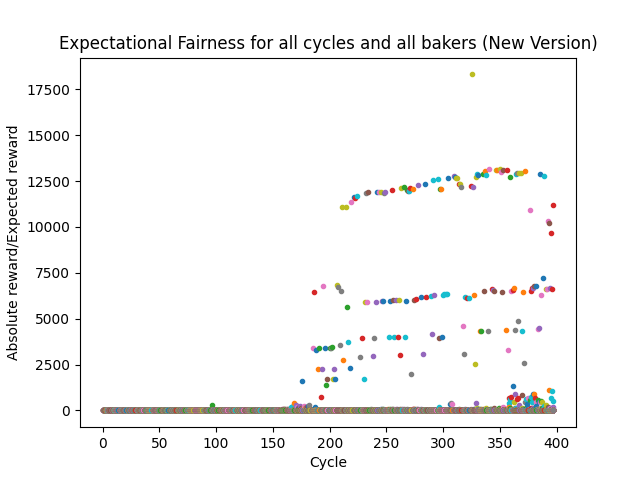
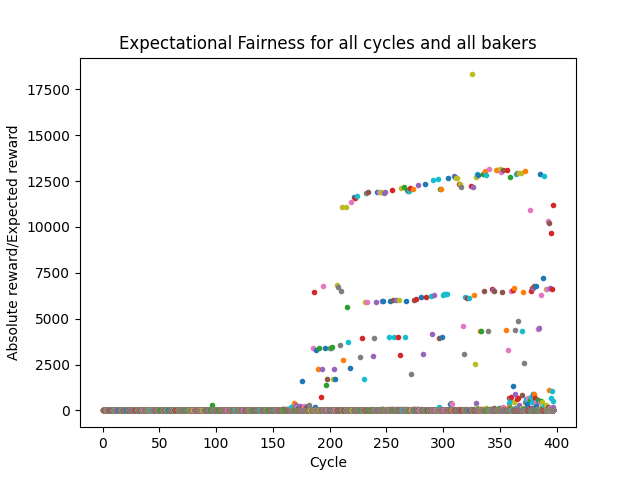
Add nakamoto index one third version

Changed region(s): [[0.0938, 0.0625, 0.9375, 0.125]]

diff --git a/tezos_analysis.py b/tezos_analysis.py
@@ -505,10 +505,9 @@ def plot_expectational_fairness_all_bakers_all_cycles(expectational_fairness_lis
         x_data = c
         for y_data in y_datas[c]:  # plot all exp fairness values in that cycle of all bakers
             plt.plot(x_data, y_data, '.')
-    # TODO: for better visibility maybe filter out all that are 0 at first sight
     plt.xlabel('Cycle')
     plt.ylabel('Absolute reward/Expected reward')
-    plt.title('Expectational Fairness for all cycles and all bakers (New Version)')
+    plt.title('Expectational Fairness for all cycles and all bakers')
     plt.savefig('images/expectational_fairness/exp_fairness_allbakers_allcycles.png')
     plt.close()
 
@@ -766,7 +765,7 @@ def get_baker_rewards_per_cycle_sorted(cycle):
     return baker_rewards_sorted
 
 
-def compute_nakamoto_index(start, end):
+def compute_nakamoto_index(start, end, isThird):
     num_cycles = end - start
     num_bakers = [0] * num_cycles  # array with number of bakers per cycle needed for > 50%
     total_rewards_per_cycle = get_total_rewards_per_cycle(start, end)
@@ -778,7 +777,10 @@ def compute_nakamoto_index(start, end):
         num_bakers_c = 0
         i = 0
         while i <= len(baker_rewards_sorted_c):  # while not all bakers in the cycle watched
-            if baker_rewards_c_summed > (total_rewards_per_cycle[c] / 2):  # reach >50%
+            if not isThird and baker_rewards_c_summed > (total_rewards_per_cycle[c] / 2):  # reach >50%, nakamoto with 1/2
+                num_bakers[c] = num_bakers_c
+                break  # stop while loop when this condition is met
+            elif isThird and baker_rewards_c_summed > (total_rewards_per_cycle[c] / 3): # nakamoto with 1/3
                 num_bakers[c] = num_bakers_c
                 break  # stop while loop when this condition is met
             else:  # if not > 50% then add one (current baker), and add the reward of the current baker
@@ -806,7 +808,7 @@ def plot_nakamoto_index(start, end):
     have more than 50% of the stake, this can fluctuate, but if it has a general tendency to go down, then it gets
     unfair as we have a few very big players """
     x_data = list((range(start, end)))
-    y_data = compute_nakamoto_index(start, end)
+    y_data = compute_nakamoto_index(start, end, False)
     plt.plot(x_data, y_data)
     plt.xlabel('Cycle')
     plt.ylabel('Percentage of bakers to reach > 50%')
@@ -815,10 +817,24 @@ def plot_nakamoto_index(start, end):
     plt.close()
 
 
+def plot_nakamoto_index_onethird(start, end):
+    """plots the nakamoto index for each cycle, i.e. the relative number of bakers (percentage) we need in order to
+    have more than 50% of the stake, this can fluctuate, but if it has a general tendency to go down, then it gets
+    unfair as we have a few very big players """
+    x_data = list((range(start, end)))
+    y_data = compute_nakamoto_index(start, end, True)
+    plt.plot(x_data, y_data)
+    plt.xlabel('Cycle')
+    plt.ylabel('Percentage of bakers to reach > 1/3')
+    plt.title('Nakamoto Index for each cycle from ' + str(start) + ' to ' + str(end))
+    plt.savefig('images/Nakamoto_index_onethird' + str(start) + '_' + str(end) + '.png')
+    plt.close()
+
+
 def plot_nakamoto_index_num_bakers(start, end):
     """Plots nakamoto index on y axis and num_bakers (in each cycle) on x axis"""
     x_data = get_num_bakers_income_table_per_cycle_list(start, end)  # get number of bakers in each cycle
-    y_data = compute_nakamoto_index(start, end)
+    y_data = compute_nakamoto_index(start, end, False)
     plt.plot(x_data, y_data, '.')
     plt.xlabel('Number of Bakers (Cycle)')
     plt.ylabel('Percentage of bakers to reach > 50%')
@@ -986,8 +1002,6 @@ if __name__ == '__main__':
     plot_income_rewards_gini_index(0, 390)
 
     # Expectational Fairness
-    # TODO: make an exp. fairness plot for 1 specific baker and a difference plot
-
     cycle_total_reward_dict, baker_initial_cycle_dict, baker_initial_reward_dict, cycle_list_of_active_bakers_dict = get_bakers_initial_values_fairness()
 
     exp_fairness_list = compute_expectational_fairness_all_cycles(cycle_total_reward_dict, baker_initial_cycle_dict,
@@ -1056,9 +1070,11 @@ if __name__ == '__main__':
     plot_distance_to_mean(0, 8)
     plot_distance_to_mean(0, 398)
 
-    #  Nakamoto index
+    #  Nakamoto index with > 1/2 approach
     plot_nakamoto_index(0, 398)
-    plot_nakamoto_index(0, 8)
+
+    # Nakamoto index with > 1/3 approach
+    plot_nakamoto_index_onethird(0, 398)
 
     # Nakamoto index with num bakers in network on x axis
     plot_nakamoto_index_num_bakers(0, 8)
